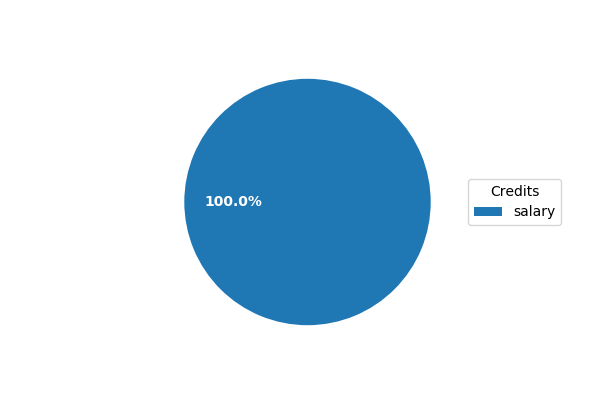
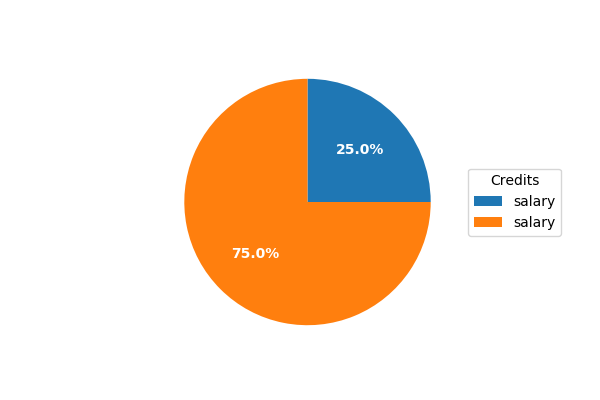
Unit Testing Complete

Changed region(s): [[0.3, 0.18, 0.72, 0.84], [0.78, 0.42, 0.93, 0.6]]

diff --git a/budget_app/tests.py b/budget_app/tests.py
@@ -9,6 +9,8 @@ from django.test import Client
 import datetime
 from django.urls import reverse
 import pandas as pd
+import warnings
+warnings.filterwarnings('ignore', 'statsmodels.tsa.ar_model.AR', FutureWarning)
 
 # Create your tests here.
 
@@ -19,29 +21,27 @@ class ExpenseModelTest(TestCase):
 		user = User.objects.create_user('unit_testing_user','pes12345')
 
 
+
+
 	def test_views(self):
 
-		print("\n\n****************************Testing Responses of views****************************")
+		print("\n\n\t\t\t\t\t****************************Testing Responses of views****************************\n")
+
+		#------------------ creating user -----------------------------
 		user = User.objects.get(id=1)
 		c = Client()
 		logged_in = c.force_login(user,backend=None)
+		print("\t\t\t\t############  TEST 1 : CREATING AND LOGGING IN USER  ############")
+		print("user created succesfully and logged in ")
+		print("username created : ",user)
 		date = datetime.date(int('2020'),int('05'),int('05'))
-		print("\n")
-		print("\n")
-		print("===== TESTING VIEW index ======")
-		try:
-			response = c.post(reverse(views.index))
-			self.assertEqual(response.status_code,200)
-
-			print("\nSTATUS CODE RETURNNED IS...",response.status_code)
-		except:
-			print("\nSTATUS CODE RETURNED IS...",response.status_code," instead of ",200)
-
-		print("\n")
-		print("\n")
-
 		
-		print("=====TESTING VIEW budget ======")
+
+		print("\n")
+		print("\n")
+
+		#------------------ adding initial budget -----------------------------
+		print("\t\t\t\t############  TEST 2 : TESING VIEW budget (adding an initial budget)  ############")
 		try:
 			init_b=200000
 			print("setting initial budget as : ",init_b)
@@ -58,9 +58,11 @@ class ExpenseModelTest(TestCase):
 
 		print("\n")
 		print("\n")
-		print("=====TESTING VIEW add_item ======")
+
+		#------------------ adding credit and debit -----------------------------
+		print("\t\t\t\t############  TEST 3 : TESING VIEW add credit transactions  ############")
 		try:
-			print("TESTING CREDIT TRANSACTIONS....\n")
+			print("\t\tTESTING CREDIT TRANSACTIONS....\n")
 			response2 = c.post(reverse(views.add_item), {
 			'expense_name':'salary',
 			'cost':10000,
@@ -69,8 +71,18 @@ class ExpenseModelTest(TestCase):
 			})
 			self.assertEqual(response2.status_code,302)
 			print("STATUS CODE RETURNNED IS...",response2.status_code)
-			print("\n")
-			print("TESTING DEBIT TRANSACTIONS....\n")
+			
+		except:
+			print("\nSTATUS CODE RETURNED IS...",response2.status_code," instead of ",302)
+
+		print("\n")
+		print("\n")
+
+		#------------------ adding credit and debit -----------------------------
+		print("\t\t\t\t############  TEST 4 : TESING VIEW add debit transactions  ############")
+		try:
+			
+			print("\t\tTESTING DEBIT TRANSACTIONS....\n")
 			response3 = c.post(reverse(views.add_item), {
 			'expense_name':'loan',
 			'cost':5000,
@@ -86,31 +98,137 @@ class ExpenseModelTest(TestCase):
 
 		print("\n")
 		print("\n")
-		print("=====TESTING VIEW logout ======")
-
+		
+		print("\t\t\t\t############  TEST 5 : TESING VIEW append credit transactions under the same name  ############")
 		try:
-			print("View redirects to homepage/login page")
-			response5 = c.post(reverse(views.logout_view))
-			self.assertEqual(response5.status_code,302)
-			print("\nSTATUS CODE RETURNNED IS...",response5.status_code)
+			print("\t\tAdding 30000 rp more to the existing salary....\n")
+			response7 = c.post(reverse(views.add_item), {
+			'expense_name':'salary',
+			'cost':30000,
+			'expense_date': date,
+			'transaction': 'credit',
+			})
+			self.assertEqual(response7.status_code,302)
+			print("STATUS CODE RETURNNED IS...",response7.status_code)
+			response8 = c.post(reverse(views.budget))
+			
 		except:
-			print("\nSTATUS CODE RETURNED IS...",response5.status_code," instead of ",302)
+			print("\nSTATUS CODE RETURNED IS...",response2.status_code," instead of ",302)
 
 
 		print("\n")
 		print("\n")
-		print("=====TESTING VIEW dashboard ======")
-
+		print("\t\t\t\t############  TEST 6 : Tesing for ML functionaility  ############")
+	
 		try:
 			
-			response5 = c.post(reverse(views.view))
-			self.assertEqual(response5.status_code,200)
-			print("View renders dashboard.html page with the images")
-			print("\nSTATUS CODE RETURNNED IS...",response5.status_code)
+			print("\t\t Making a set of 12 debits to showcase ML functionaility\n")
+			date=[datetime.date(int('2020'),int('05'),int('01')),
+				datetime.date(int('2020'),int('05'),int('02')),
+				datetime.date(int('2020'),int('05'),int('03')),
+				datetime.date(int('2020'),int('05'),int('04')),
+				datetime.date(int('2020'),int('05'),int('05')),
+				datetime.date(int('2020'),int('05'),int('06')),
+				datetime.date(int('2020'),int('05'),int('07')),
+				datetime.date(int('2020'),int('05'),int('08')),
+				datetime.date(int('2020'),int('05'),int('09')),
+				datetime.date(int('2020'),int('05'),int('10')),
+				datetime.date(int('2020'),int('05'),int('11')),
+				datetime.date(int('2020'),int('05'),int('12'))]
+			for i in range(0,12):
+				resp='r'+str(i)
+				resp= c.post(reverse(views.add_item), {
+				'expense_name':'misc_'+str(i),
+				'cost':1000+(i*100),
+				'expense_date': date[i],
+				'transaction': 'debit',
+				})
+
+			response10 = c.post(reverse(views.budget))
+			self.assertEqual(response10.status_code,200)
+			print("STATUS CODE RETURNNED IS...",response10.status_code)
 		except:
-			print("\nSTATUS CODE RETURNED IS...",response5.status_code," instead of ",200)
+			print("\nSTATUS CODE RETURNED IS...",response10.status_code," instead of ",200)
+
+
+		print("\n")
+		print("\n")
+
+
+		print("\t\t\t\t############  TEST 7 : TESING VIEW make a debit more than credit  ############")
+		try:
+			print("\t\tDebiting more than credit exists\n")
+			response9 = c.post(reverse(views.add_item), {
+			'expense_name':'misc_expenses',
+			'cost':500000,
+			'expense_date': date,
+			'transaction': 'debit',
+			})
+			self.assertEqual(response9.status_code,302)
+			print("STATUS CODE RETURNNED IS...",response9.status_code)
+			# c.post(reverse(views.budget))
+			c.post(reverse(views.index))
+				
+		 
+			
+		except:
+			print("\nSTATUS CODE RETURNED IS...",response2.status_code," instead of ",302)
 
 		
+
+		print("\t\t\t\t############  TEST 8 : TESING VIEW invalid entry  ############")
+		try:
+			print("\t\t Testing for Invalid Entry... \n")
+			r_9 = c.post(reverse(views.add_item), {
+			'expense_name':'invalid_credit',
+			'cost':'inavlid cost',
+			'expense_date': date,
+			'transaction': 'credit',
+			})
+			self.assertEqual(r_9.status_code,302)
+			print("STATUS CODE RETURNNED IS...",r_9.status_code)
+			
+
+		 
+			
+		except:
+			print(" Inavlid entry type in field rasied ")
+
+
+		print("\n")
+		print("\n")
+
+		#------------------ checking logout  -----------------------------
+		print("\t\t\t\t############  TEST 9 : TESING VIEW logout (logging out a user and redirecting to login page)  ############")
+		try:
+			print("View redirects to homepage/login page")
+			r_1 = c.post(reverse('logout'))
+			self.assertEqual(r_1.status_code,302)
+			print("\nSTATUS CODE RETURNNED IS...",r_1.status_code)
+		except:
+			print("\nSTATUS CODE RETURNED IS...",r_1.status_code," instead of ",302)
+
+
+		print("\n")
+		print("\n")
+		
+		#------------------ testing dashboard  -----------------------------
+		print("\t\t\t\t############  TEST 10 : TESING VIEW dashboard (checking if it renders the dashboard.html)  ############")
+	
+		try:
+			
+			response6 = c.post(reverse(views.view))
+			self.assertEqual(response6.status_code,200)
+			print("View renders dashboard.html page with the images")
+			print("\nSTATUS CODE RETURNNED IS...",response6.status_code)
+		except:
+			print("\nSTATUS CODE RETURNED IS...",response6.status_code," instead of ",200)
+
+
+
+
+		
+
 
 
 		

diff --git a/budget_app/views.py b/budget_app/views.py
@@ -17,6 +17,13 @@ from statsmodels.tsa.holtwinters import ExponentialSmoothing
 from statsmodels.tsa.ar_model import AR
 from random import random
 import os
+from pandas.plotting import register_matplotlib_converters
+register_matplotlib_converters()
+
+import warnings
+warnings.filterwarnings('ignore', 'statsmodels.tsa.ar_model.AR', FutureWarning)
+
+
 # Create your views here.
 
 labels={}
@@ -47,6 +54,11 @@ def index(request):
 		budget_total['budget']=0
 	if(expense_total['expenses'] is None):
 		expense_total['expenses']=0
+	if(abs(expense_total['expenses']) > budget_total['budget']):
+
+		print("\n\tWARNING *** : YOU HAVE SPENT MORE THAN YOUR SAVINGS \n")
+		print("CURRENT EXPENSES : ",abs(expense_total['expenses']))
+		print("CURRENT BUDGET BALANCE : ",budget_total['budget'])
 
 	context = {'expense_items':expense_items,'budget':budget_total['budget'],'diff': budget_total['budget']+expense_total['expenses'],'expenses':abs(expense_total['expenses'])}
 	return render(request,'budget_app/index.html',context=context)
@@ -94,6 +106,7 @@ def add_item(request):
 	ax.bar(['Expenses','Budget'], [abs(expense_total['expenses']),abs(budget_total['budget'])],color=['red','green'])
 	# ax.set_title('Your total expenses vs. total budget')
 	plt.savefig('budget_app/static/budget_app/expense.png')
+	plt.close('all')
 
 	# fig1, ax1 = plt.subplots()
 	# ax1.pie(costs1,labels=labels1,autopct='%.1f%%',startangle=90)
@@ -109,12 +122,14 @@ def add_item(request):
 	plt.setp(autotexts, size=10, weight="bold")
 	# ax1.set_title("Your Monthly Expenses")
 	plt.savefig('budget_app/static/budget_app/costs.png')
+	plt.close('all')
 
 	fig2, ax2 = plt.subplots(figsize=(6,4), subplot_kw=dict(aspect="equal"))
 	wedges_, texts_, autotexts_ = ax2.pie(costs2, autopct='%1.1f%%',textprops=dict(color="w"))
 	ax2.legend(wedges_,labels2,title="Credits",loc="center left", bbox_to_anchor=(1, 0, 0.5, 1))
 	plt.setp(autotexts_, size=10, weight="bold")
 	plt.savefig('budget_app/static/budget_app/credits.png')
+	plt.close('all')
 
 	
 	return HttpResponseRedirect('budget')
@@ -127,7 +142,7 @@ def budget(request):
 		os.remove("budget_app/static/budget_app/costs.png")
 	if(os.path.exists("budget_app/static/budget_app/predict.png")):
 		os.remove("budget_app/static/budget_app/predict.png")
-	print("\t \t -----Removing all static files...------")
+	print("\t \t ***** Removing all pre existing static files ...")
 	init_name = request.POST.get('init_name','Budget')
 	init_budget = request.POST.get('init_budget',0)
 	init_expense_date = request.POST.get('init_expense_date','2020-04-01')
@@ -146,6 +161,7 @@ def budget(request):
 	fig,ax=plt.subplots()
 	ax.bar(['Expenses','Budget'], [abs(expense_total['expenses']),abs(budget_total['budget'])],color=['red','green'])
 	plt.savefig('budget_app/static/budget_app/expense.png')
+	plt.close('all')
 
 	labels1=[]
 	costs1 = []
@@ -171,6 +187,7 @@ def budget(request):
 				cred_labels[expense_item.expense_name]=abs(expense_item.cost)
 			# print(cred_labels)
 	
+
 	labels1=labels.keys()
 	costs1=labels.values()
 
@@ -198,6 +215,7 @@ def budget(request):
 	ax1.legend(wedges,labels1,title="Expenditures",loc="center left", bbox_to_anchor=(1, 0, 0.5, 1))
 	plt.setp(autotexts, size=10, weight="bold")
 	plt.savefig('budget_app/static/budget_app/costs.png')
+	plt.close('all')
 
 	fig2, ax2 = plt.subplots(figsize=(6,4), subplot_kw=dict(aspect="equal"))
 	wedges_, texts_, autotexts_ = ax2.pie(costs2, autopct='%1.1f%%',textprops=dict(color="w"))
@@ -205,6 +223,7 @@ def budget(request):
 	ax2.legend(wedges_,labels2,title="Credits",loc="center left", bbox_to_anchor=(1, 0, 0.5, 1))
 	plt.setp(autotexts_, size=10, weight="bold")
 	plt.savefig('budget_app/static/budget_app/credits.png')
+	plt.close('all')
 	
 	lower=0
 	upper=0
@@ -225,6 +244,7 @@ def budget(request):
 	if(len(debit_dates)==len(copy)):
 		ax3.plot(debit_dates, copy)
 		plt.savefig('budget_app/static/budget_app/predict.png')
+		plt.close('all')
 
 	if(len(debit_dates)>=10):
 			fig3, ax3 = plt.subplots(figsize=(6,4))
@@ -232,13 +252,15 @@ def budget(request):
 			model_fit = model.fit()
 			# make prediction
 			yhat = model_fit.predict(len(costs1), len(costs1))
-			print("PREDICTED EXPENSE...")
+			print("\t ***** PREDICTED EXPENSE...")
 			print(yhat)  #new expense
 			# copy=[]
 			# copy=list(costs1)
+			'''
 			print(costs1)
 			print(copy)
 			print(debit_dates)
+			'''
 			#copy.append(yhat)
 			#debit_dates.append(debit_dates[0]+datetime.timedelta(days=1))
 			if(len(debit_dates)==len(copy)):
@@ -247,13 +269,14 @@ def budget(request):
 
 				  #line graph for AR
 				plt.savefig('budget_app/static/budget_app/predict.png')
+				plt.close('all')
 
 			#fig4, ax4 = plt.subplots()
 			model2 =  ExponentialSmoothing(list(costs1))
 			model_fit2 = model2.fit()
 			# make prediction
 			yhat2 = model_fit2.predict(len(costs1), len(costs1))
-			print("Range of expenses:")
+			print("*** RANGE OF EXPENSES :")
 			print(yhat[0], "-", yhat2[0])  #new expense
 			#copy2=[]
 			#copy2=list(costs1)
